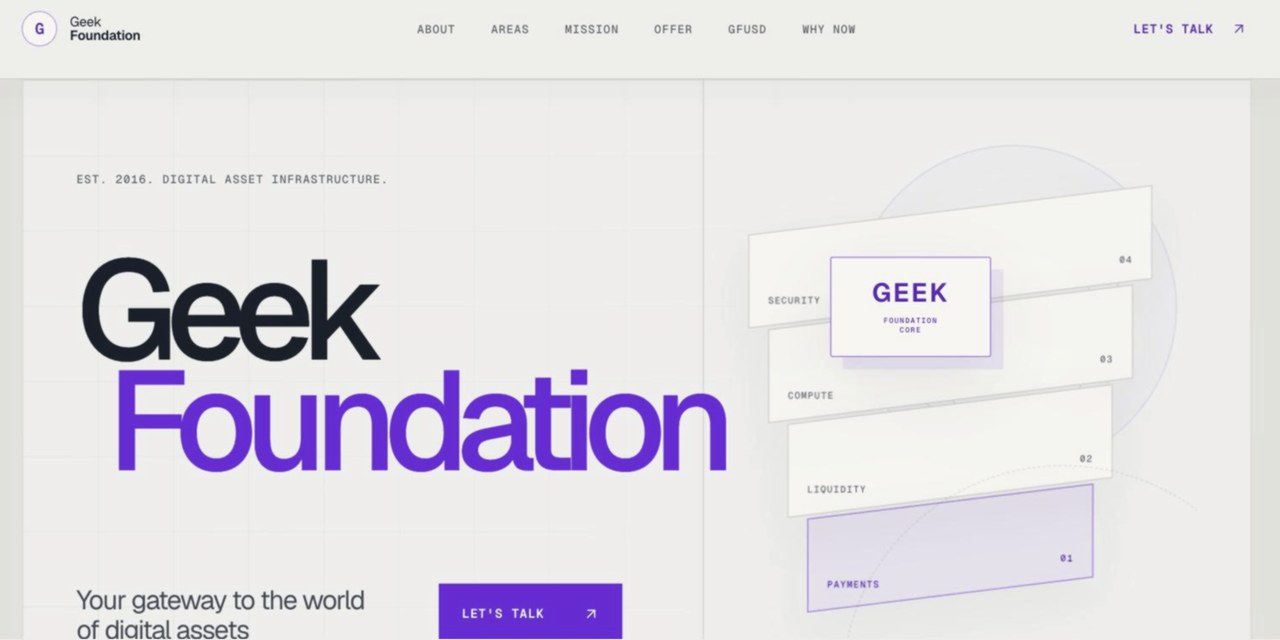
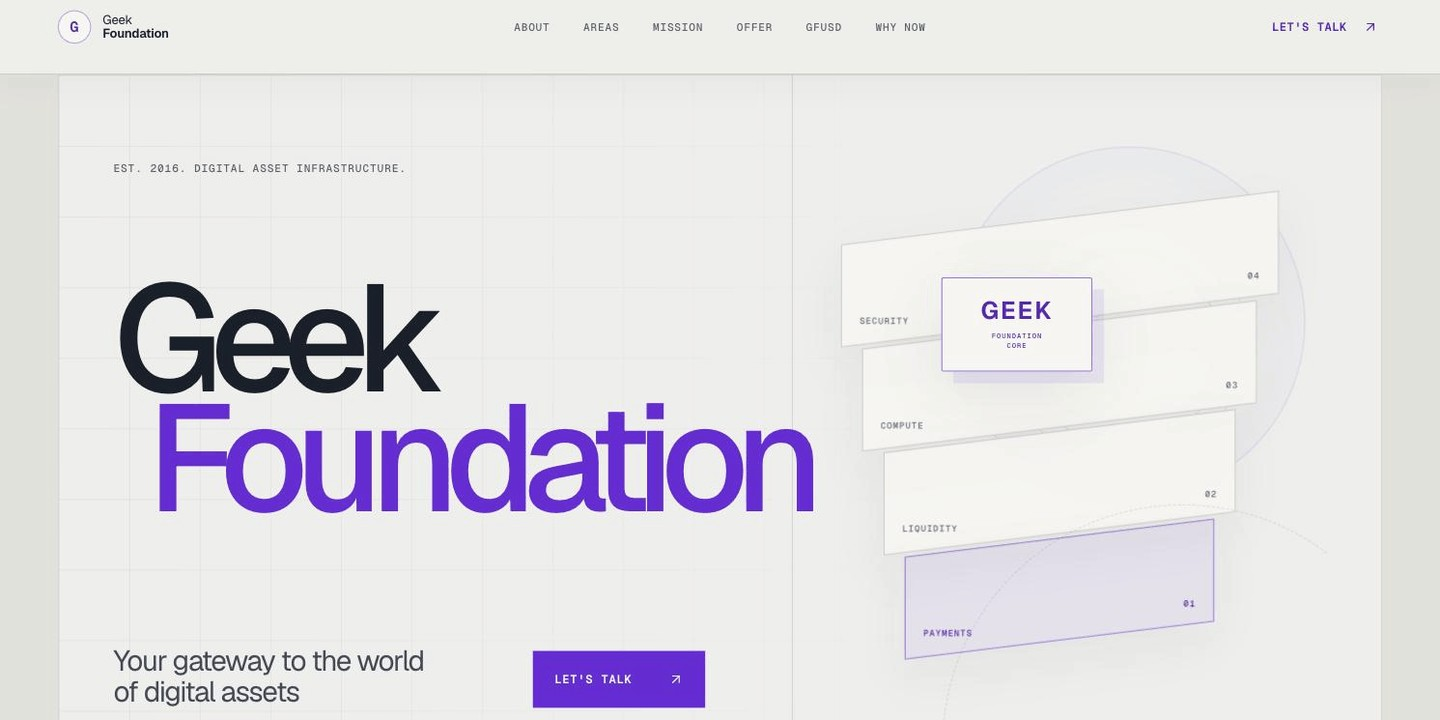
Recapture the Geek Foundation hero image
The published hero was soft: it came from a colour-quantised capture that
was then smoothed, so type edges were blurred. Recaptured the first screen
at full window width, cropped 2:1 and resampled with no smoothing pass.

- 01-geek-foundation-hero now 1440x720 (was 1280x640), jpg + webp
- og-geek-foundation.jpg regenerated from the same capture
- width/height and srcset descriptors updated on the case page,
  the work index card and the homepage card

diff --git a/work/index.html b/work/index.html
@@ -152,7 +152,7 @@
       <div class="sec-head"><span class="kicker">Case studies</span><h2>Selected projects</h2><p>Every project is different. The common thread is a clear brief, deliberate design and a product that can actually be used after launch.</p></div>
       <div class="case-grid">
         <a class="case-card" href="/work/geek-foundation/" aria-label="Read the Geek Foundation case study">
-          <div class="frame"><span class="bar" aria-hidden="true"><span class="dot"></span><span class="dot"></span><span class="dot"></span><span class="url">geek.foundation</span></span><picture><source type="image/webp" sizes="(max-width:800px) 100vw, 560px" srcset="/assets/work/geek-foundation/01-geek-foundation-hero-640.webp 640w, /assets/work/geek-foundation/01-geek-foundation-hero.webp 1280w"><img src="/assets/work/geek-foundation/01-geek-foundation-hero.jpg" sizes="(max-width:800px) 100vw, 560px" srcset="/assets/work/geek-foundation/01-geek-foundation-hero-640.jpg 640w, /assets/work/geek-foundation/01-geek-foundation-hero.jpg 1280w" width="1280" height="640" loading="eager" decoding="async" alt="Geek Foundation website hero with a light editorial layout and four-layer infrastructure diagram."></picture></div>
+          <div class="frame"><span class="bar" aria-hidden="true"><span class="dot"></span><span class="dot"></span><span class="dot"></span><span class="url">geek.foundation</span></span><picture><source type="image/webp" sizes="(max-width:800px) 100vw, 560px" srcset="/assets/work/geek-foundation/01-geek-foundation-hero-640.webp 640w, /assets/work/geek-foundation/01-geek-foundation-hero.webp 1440w"><img src="/assets/work/geek-foundation/01-geek-foundation-hero.jpg" sizes="(max-width:800px) 100vw, 560px" srcset="/assets/work/geek-foundation/01-geek-foundation-hero-640.jpg 640w, /assets/work/geek-foundation/01-geek-foundation-hero.jpg 1440w" width="1440" height="720" loading="eager" decoding="async" alt="Geek Foundation website hero with a light editorial layout and four-layer infrastructure diagram."></picture></div>
           <div class="case-card-body"><span class="eyebrow">Digital asset infrastructure &middot; Website redesign</span><h2>Geek Foundation</h2><p>A complex digital asset portfolio turned into one clear, responsive editorial experience.</p><div class="pills"><span class="pill">UX/UI Design</span><span class="pill">Front-end Development</span><span class="pill">Responsive UX</span></div><span class="view">Read case study <svg width="16" height="16" viewBox="0 0 24 24" fill="none" stroke="currentColor" stroke-width="2" stroke-linecap="round" stroke-linejoin="round" aria-hidden="true"><path d="M5 12h14M13 6l6 6-6 6"/></svg></span></div>
         </a>
         <a class="case-card" href="/work/canacore/" aria-label="Read the CanaCore case study">

diff --git a/index.html b/index.html
@@ -713,8 +713,8 @@ footer{border-top:1px solid var(--line);padding:44px 0 52px;font-size:.85rem;col
         <a class="frame" href="/work/geek-foundation/" aria-label="View the Geek Foundation case study">
           <span class="bar" aria-hidden="true"><span class="dot"></span><span class="dot"></span><span class="dot"></span><span class="url">geek.foundation</span></span>
           <picture>
-            <source type="image/webp" sizes="(max-width:900px) 100vw, 600px" srcset="/assets/work/geek-foundation/01-geek-foundation-hero-640.webp 640w, /assets/work/geek-foundation/01-geek-foundation-hero.webp 1280w">
-            <img src="/assets/work/geek-foundation/01-geek-foundation-hero.jpg" sizes="(max-width:900px) 100vw, 600px" srcset="/assets/work/geek-foundation/01-geek-foundation-hero-640.jpg 640w, /assets/work/geek-foundation/01-geek-foundation-hero.jpg 1280w" width="1280" height="640" loading="lazy" decoding="async" alt="Geek Foundation website hero with a light editorial layout and four-layer infrastructure diagram.">
+            <source type="image/webp" sizes="(max-width:900px) 100vw, 600px" srcset="/assets/work/geek-foundation/01-geek-foundation-hero-640.webp 640w, /assets/work/geek-foundation/01-geek-foundation-hero.webp 1440w">
+            <img src="/assets/work/geek-foundation/01-geek-foundation-hero.jpg" sizes="(max-width:900px) 100vw, 600px" srcset="/assets/work/geek-foundation/01-geek-foundation-hero-640.jpg 640w, /assets/work/geek-foundation/01-geek-foundation-hero.jpg 1440w" width="1440" height="720" loading="lazy" decoding="async" alt="Geek Foundation website hero with a light editorial layout and four-layer infrastructure diagram.">
           </picture>
         </a>
       </div>

diff --git a/work/geek-foundation/index.html b/work/geek-foundation/index.html
@@ -191,8 +191,8 @@
         <div class="frame shot-2-1">
           <div class="bar" aria-hidden="true"><span class="dot"></span><span class="dot"></span><span class="dot"></span><span class="url">geek.foundation</span></div>
           <picture>
-            <source type="image/webp" sizes="(max-width:900px) 100vw, 1112px" srcset="/assets/work/geek-foundation/01-geek-foundation-hero-640.webp 640w, /assets/work/geek-foundation/01-geek-foundation-hero.webp 1280w">
-            <img src="/assets/work/geek-foundation/01-geek-foundation-hero.jpg" sizes="(max-width:900px) 100vw, 1112px" srcset="/assets/work/geek-foundation/01-geek-foundation-hero-640.jpg 640w, /assets/work/geek-foundation/01-geek-foundation-hero.jpg 1280w" width="1280" height="640" decoding="async" alt="Geek Foundation website hero with a light editorial layout and four-layer infrastructure diagram.">
+            <source type="image/webp" sizes="(max-width:900px) 100vw, 1112px" srcset="/assets/work/geek-foundation/01-geek-foundation-hero-640.webp 640w, /assets/work/geek-foundation/01-geek-foundation-hero.webp 1440w">
+            <img src="/assets/work/geek-foundation/01-geek-foundation-hero.jpg" sizes="(max-width:900px) 100vw, 1112px" srcset="/assets/work/geek-foundation/01-geek-foundation-hero-640.jpg 640w, /assets/work/geek-foundation/01-geek-foundation-hero.jpg 1440w" width="1440" height="720" decoding="async" alt="Geek Foundation website hero with a light editorial layout and four-layer infrastructure diagram.">
           </picture>
         </div>
         <figcaption>A new light editorial identity and a diagram that makes four business areas visible from the first screen.</figcaption>
